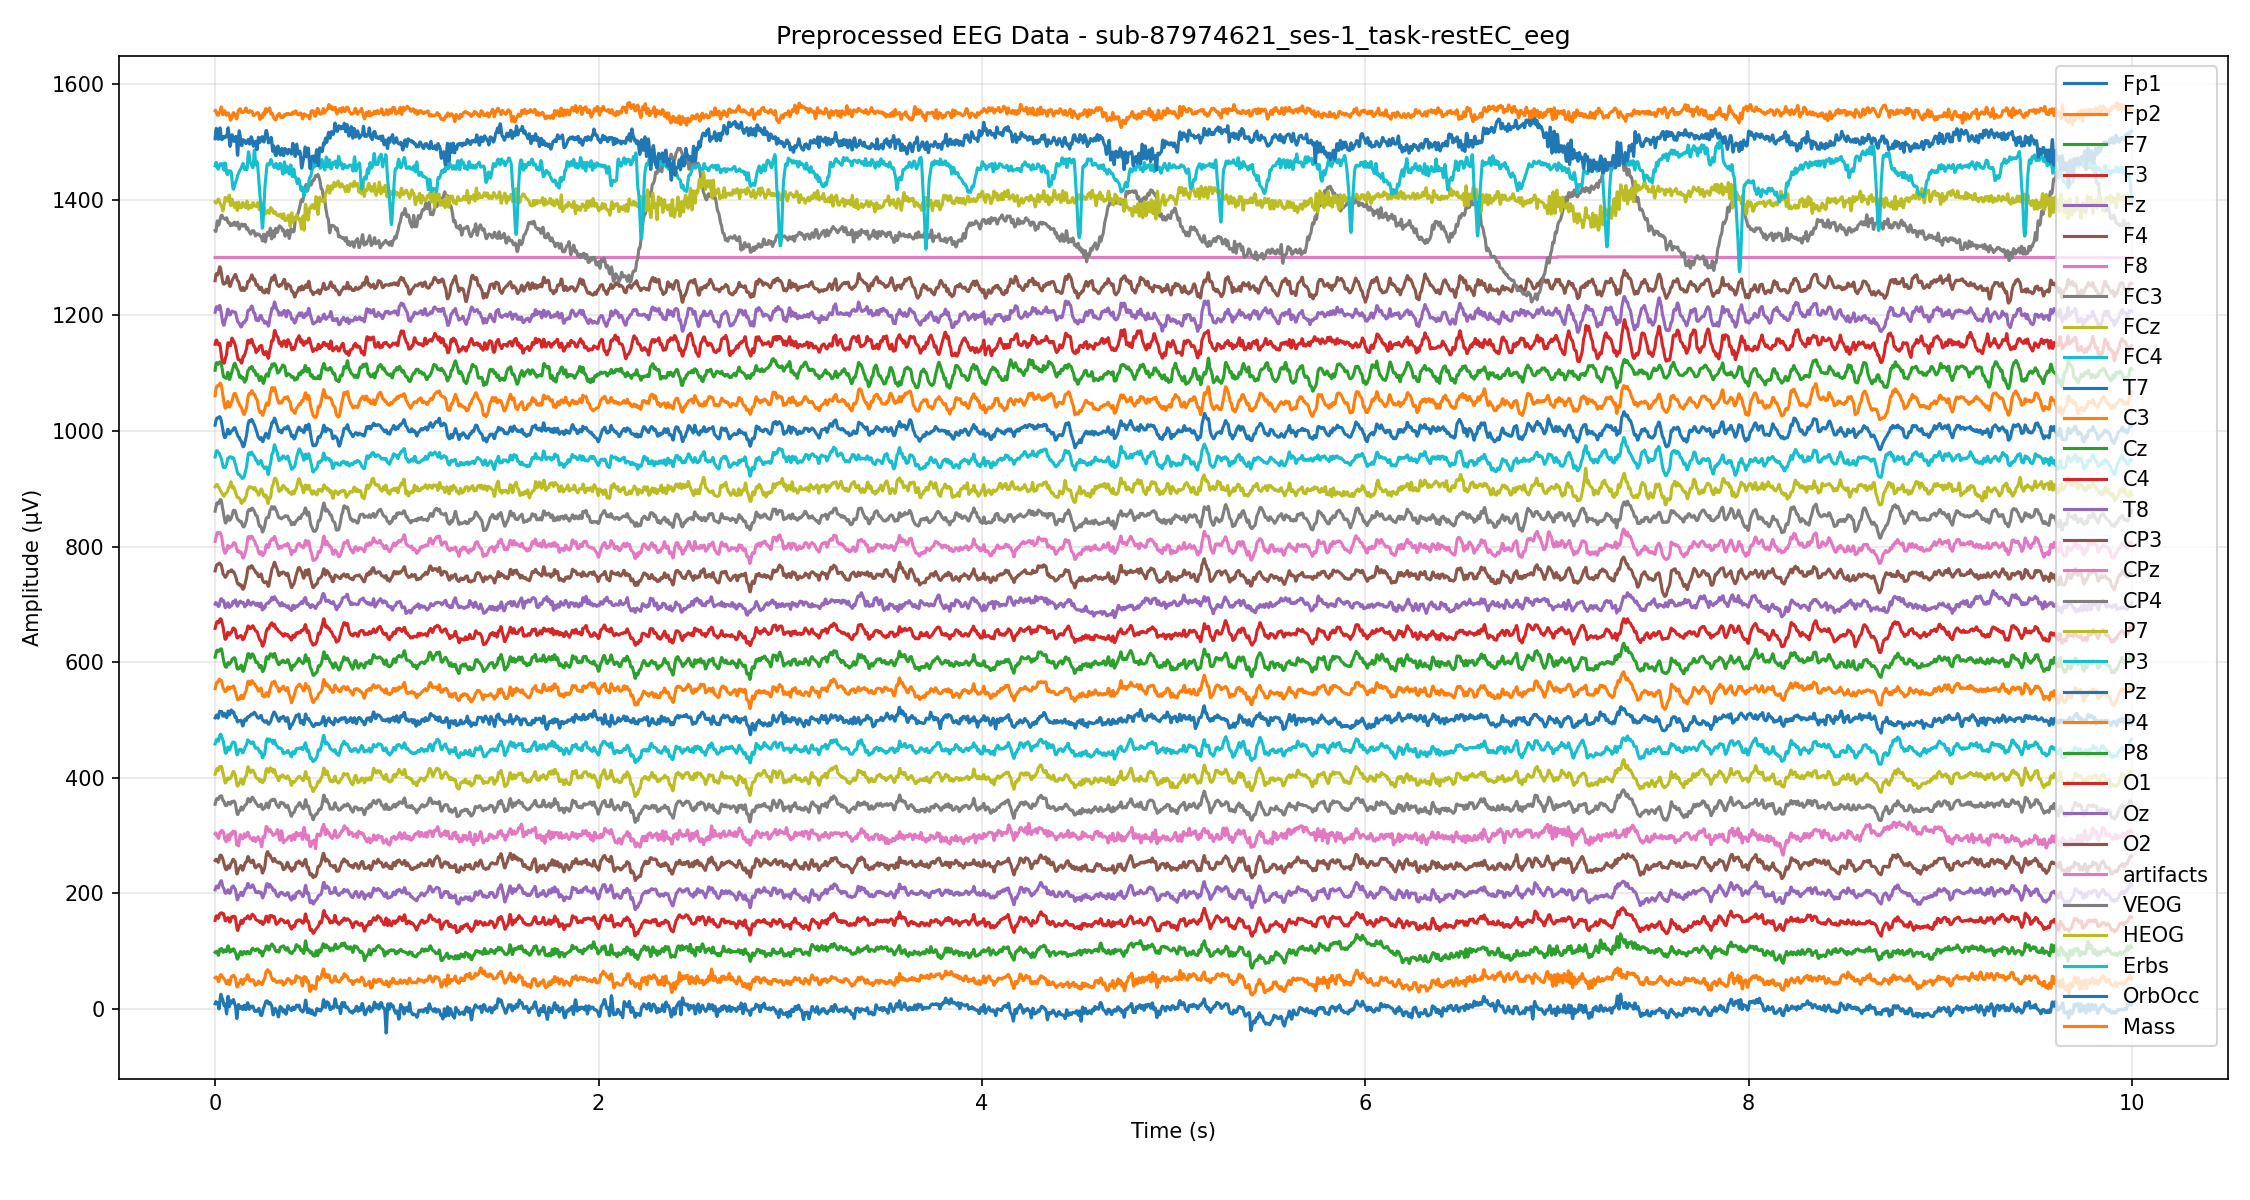
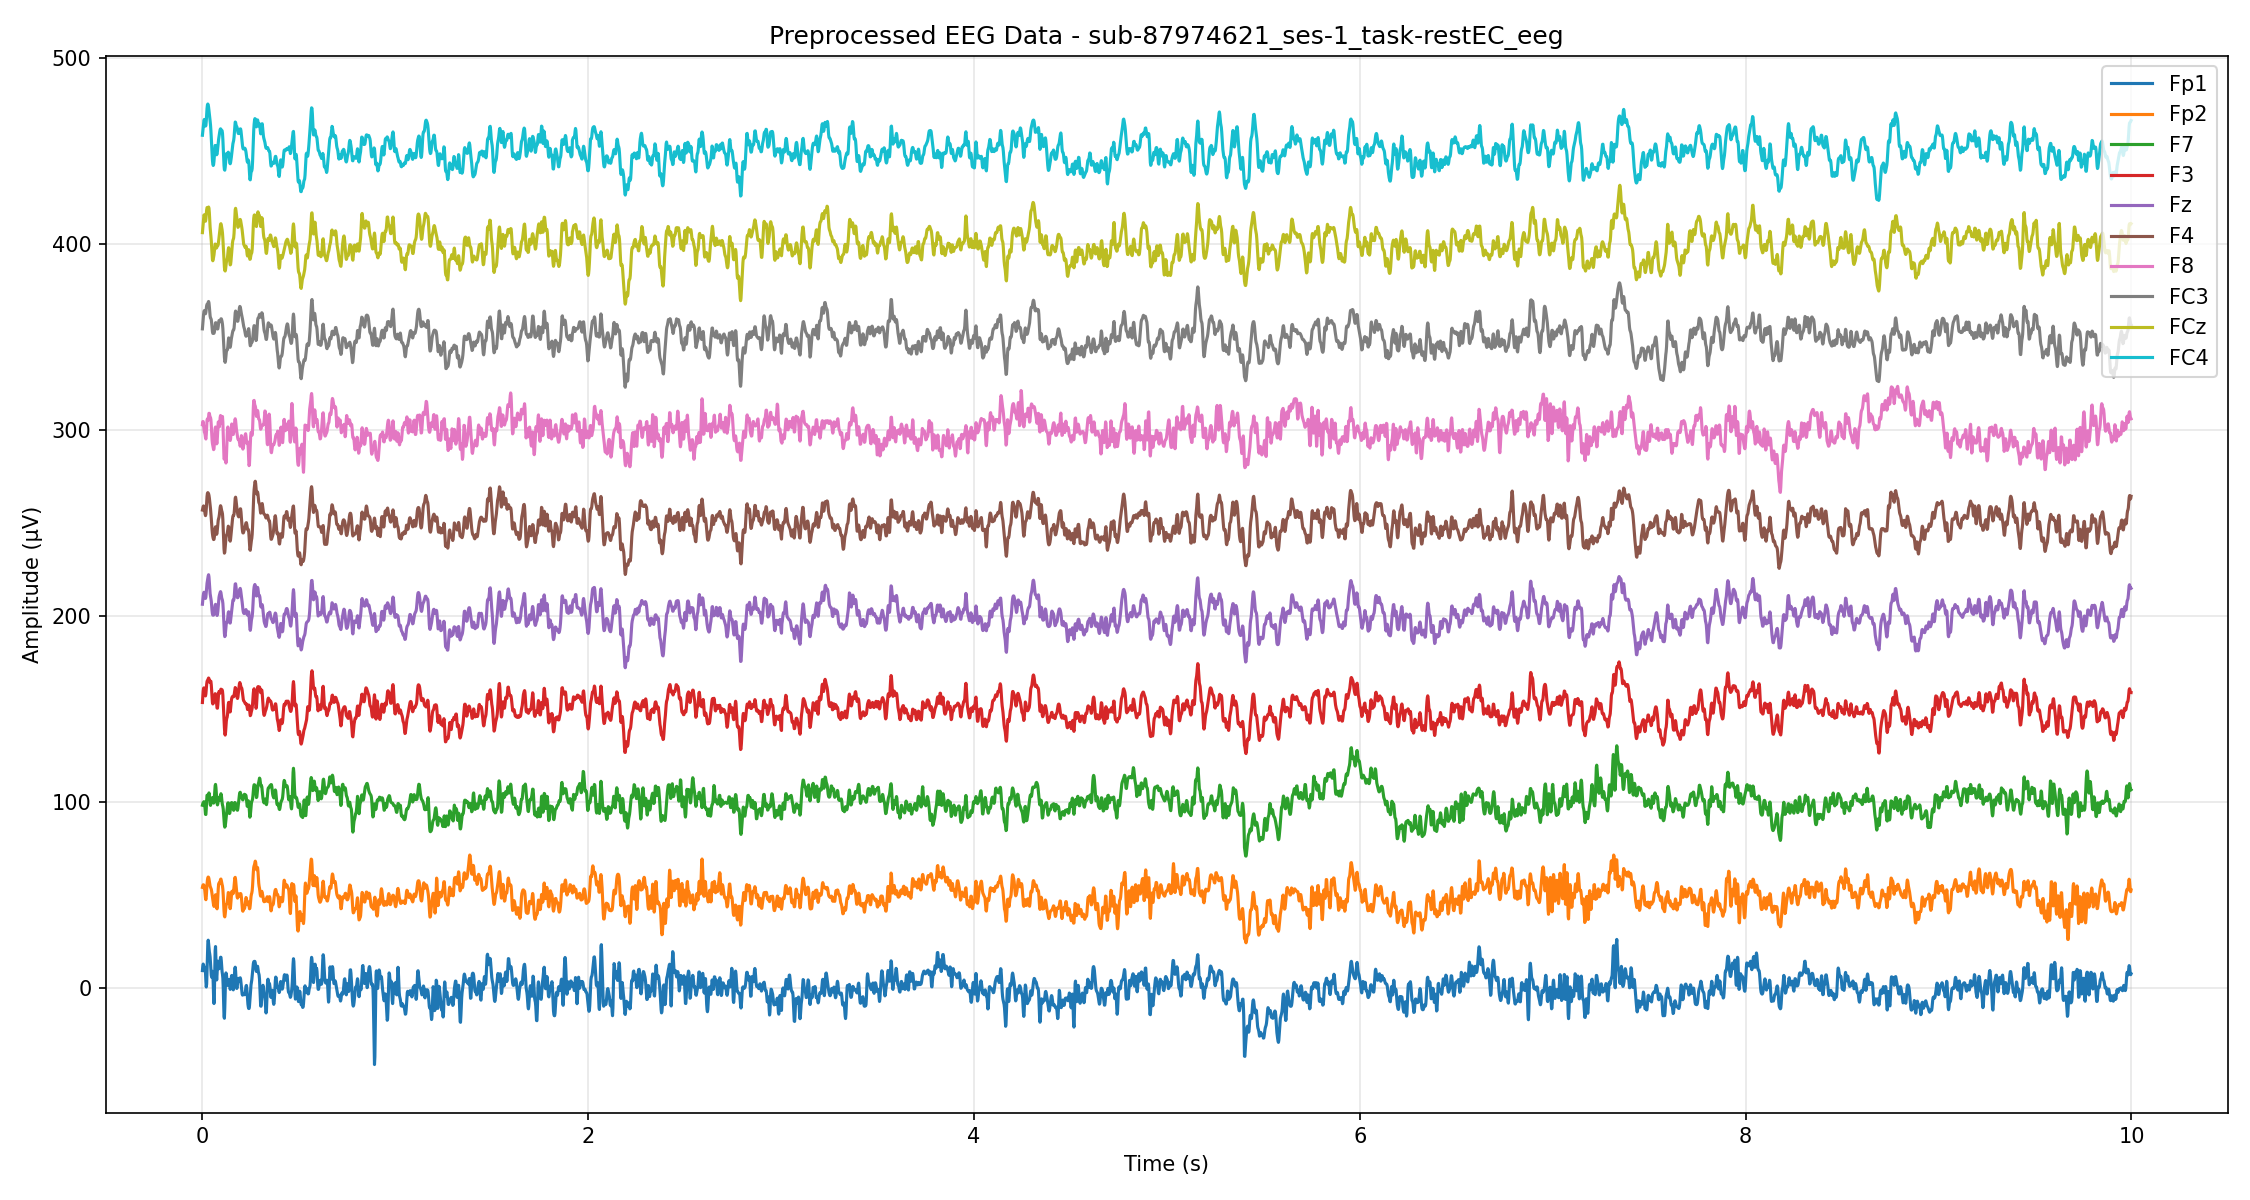
Added channel-wise MSE and R2 graph addition, with some cleanups

diff --git a/main.py b/main.py
@@ -20,11 +20,11 @@ sys.path.insert(0, os.path.join(os.getcwd(), 'preprocessing', 'TDBRAIN'))
 from preprocessing.TDBRAIN.autopreprocessing import dataset as ds
 
 # Configuration
-PATIENT_ID = "sub-87974621_ses-1_task-restEC_eeg"  # Change this to your patient ID
+PATIENT_ID = "sub-88026949_ses-2_task-restEC_eeg"  # Change this to your patient ID
 DATA_PATH = "E:\\JHU_Postdoc\\Research\\TDBrain\\TD_BRAIN_code\\BRAIN_code\\Sample\\diff_data"  # Update with your data path
 OUTPUT_PATH = ".\\output"  # Where to save results
 
-# Create output directory
+# Create output directory (and any parents), but don’t crash if it already exists.
 Path(OUTPUT_PATH).mkdir(parents=True, exist_ok=True)
 
 print(f"Processing patient: {PATIENT_ID}")
@@ -57,7 +57,8 @@ else:
     print(f"Data shape: {eeg_data.data.shape}")
     print(f"Number of channels: {len(eeg_data.labels)}")
     print(f"Sampling frequency: {eeg_data.Fs} Hz")
-    print(f"Channel labels: {eeg_data.labels[:10]}...")  # Show first 10 channels
+    print(f"Duration: {eeg_data.data.shape[1] / eeg_data.Fs} seconds")
+    print(f"Channel labels: {eeg_data.labels[:]}...")  # Show first 10 channels
 
 # %% Section 3: Preprocessing
 print("\n" + "=" * 60)
@@ -110,13 +111,13 @@ print("SECTION 4: VISUALIZING PREPROCESSED DATA")
 print("=" * 60)
 
 # Segment data for visualization (10 second segments)
-# eeg_data.segment(trllength=10, remove_artifact='no')
+eeg_data.segment(trllength=20, remove_artifact='no')
 
 # Plot a sample of the preprocessed data
 fig, ax = plt.subplots(figsize=(15, 8))
 
 # Plot first few channels for 10 seconds
-n_channels_to_plot = max(5, len(eeg_data.labels))
+n_channels_to_plot = min(10, len(eeg_data.labels))
 time_vector = np.arange(eeg_data.data.shape[2]) / eeg_data.Fs
 
 for i in range(n_channels_to_plot):
@@ -153,7 +154,7 @@ print(f"Data for A matrix computation: {data_continuous.shape}")
 print(f"Channels: {n_channels}, Samples: {n_samples}")
 
 # Parameters for A matrix computation
-window_length = 0.15 #0.045  # 45ms window (from MATEO code)
+window_length = 0.5 #0.045  # 45ms window (from MATEO code)
 alpha = 1e-12  # Regularization parameter
 fs = eeg_data.Fs
 
@@ -172,75 +173,85 @@ def compute_A_matrix(X, alpha, n_channels):
     """
     nchns, T = X.shape
 
-    Z = X[:, 0:T - 1]
-    Y = X[:, 1:T]
+    Z = X[:, 0:T - 1] # Takes all columns except the last → represents data from time t to T−1 (past samples).
+    Y = X[:, 1:T] #Takes all columns except the first → represents data from time t+1 to T (future samples).
 
+    # Computes regularized autocovariance matrix of Z:  #Z @ Z.T gives covariance between channels;
+    # alpha * np.eye(nchns) adds diagonal regularization (ridge term) to ensure matrix invertibility.
     Z2 = Z @ Z.T + alpha * np.eye(nchns)
-    D = np.linalg.pinv(Z2)
-    D2 = Z.T @ D
-    A_hat = Y @ D2
 
+    #Computes the Moore–Penrose pseudo-inverse of the regularized covariance matrix Z2. This step is needed for numerical stability if Z2 is near-singular.
+    D = np.linalg.pinv(Z2)
+
+    D2 = Z.T @ D #This forms part of the regression solution (preparing to estimate the transition mapping).
+
+    A_hat = Y @ D2 #Computes the transition (connectivity) matrix:
+    # This gives how each channel’s next-time activity depends on all channels’ current activity.
+
+    #Returns the estimated A_hat, a square matrix of size (n_channels × n_channels)
+    # describing how each channel at time t influences every channel at time t + 1.
     return A_hat
 
 
 # Compute A matrices for all windows
-window_start = 0
-A_matrices = []
+window_start = 0 #Initializes starting index of the first time window.
+A_matrices = [] #Empty list to store A-matrices from each window.
 
-while window_start < (n_samples - window_length_samples):
-    X = data_continuous[:, window_start:window_start + window_length_samples]
+while window_start < (n_samples - window_length_samples): #Loop through the continuous data in chunks
+    X = data_continuous[:, window_start:window_start + window_length_samples] #Extracts one time window Shape: (n_channels, window_length_samples)
 
     # Standardize the data
-    mean_vec = np.mean(X, axis=1, keepdims=True)
-    X_centered = X - mean_vec
-    std_vec = np.std(X_centered, axis=1, keepdims=True)
+    mean_vec = np.mean(X, axis=1, keepdims=True)  #Computes mean of each channel (along time). Used for centering.
+    X_centered = X - mean_vec #makes each channel zero-mean within this window.
+    std_vec = np.std(X_centered, axis=1, keepdims=True) #Computes standard deviation of each channel.
     std_vec[std_vec == 0] = 1  # Avoid division by zero
 
     # Compute A matrix
-    A_hat = compute_A_matrix(X, alpha, n_channels)
-    A_matrices.append(A_hat)
+    A_hat = compute_A_matrix(X, alpha, n_channels) #Computes the transition (A) matrix for this window using the earlier routine.
+    A_matrices.append(A_hat) #Stores the A-matrix for this time window.
 
-    window_start += window_advance_samples
+    window_start += window_advance_samples #Moves the sliding window ahead by a fixed number of samples (defines overlap)
 
-A_matrices = np.array(A_matrices)
+A_matrices = np.array(A_matrices) #Converts the list to a 3-D NumPy array. Shape: (n_windows, n_channels, n_channels).
 A_matrices = np.transpose(A_matrices, (1, 2, 0))  # Shape: (n_channels, n_channels, n_windows)
 
 print(f"A matrices computed!")
 print(f"Shape: {A_matrices.shape}")
 print(f"Number of windows: {A_matrices.shape[2]}")
 
-# %% Section 5.5: Reconstruct Signal from A Matrices
+# %% Section 6: Reconstruct Signal from A Matrices
 print("\n" + "=" * 60)
-print("SECTION 5.5: RECONSTRUCTING SIGNAL")
+print("SECTION 6: RECONSTRUCTING SIGNAL")
 print("=" * 60)
 
 # Initialize reconstructed signal
-data_reconstructed = np.zeros_like(data_continuous)
+data_reconstructed = np.zeros_like(data_continuous) #data_continuous = eeg_data.data[0, :26, :]  # First 26 channels (EEG only, exclude EOG)
 
-n_windows = A_matrices.shape[2]  # ADD THIS LINE
-channel_labels = eeg_data.labels
+n_windows = A_matrices.shape[2]  #Total window count
+channel_labels = eeg_data.labels # channel labels
 
 print(f"Reconstructing signal using A matrices...")
 print(f"Window length: {window_length_samples} samples")
 print(f"Number of windows: {n_windows}")
 
 # Reconstruct signal window by window
-for win_idx in range(n_windows):
-    # Get the A matrix for this window
+for win_idx in range(n_windows): #Iterates over each window index, reconstructing one segment at a time.
+
     A = A_matrices[:, :, win_idx]
 
     # Define window boundaries
-    win_start = win_idx * window_length_samples
-    win_end = min((win_idx + 1) * window_length_samples, n_samples)
+    win_start = win_idx * window_length_samples #Starting sample index for this window.
+    win_end = min((win_idx + 1) * window_length_samples, n_samples) #Ending index for the window (ensures not to exceed total samples).
 
     # Set initial condition: first sample of this window from true signal
     data_reconstructed[:, win_start] = data_continuous[:, win_start]
 
     # Recursively reconstruct within this window: X(t+1) = A * X(t)
     for t in range(win_start + 1, win_end):
-        data_reconstructed[:, t] = A @ data_reconstructed[:, t - 1]
+        data_reconstructed[:, t] = A @ data_reconstructed[:, t - 1] #Use Current A Mat to get the next Sample. Recursively approximate the entire signal.
+        #X^(t+1) = A X^(t)
 
-    if (win_idx + 1) % 10 == 0:
+    if (win_idx + 1) % 10 == 0: #Every 10 windows, prints progress to monitor long runs.
         print(f"  Processed {win_idx + 1}/{n_windows} windows...")
 
 print(f"Signal reconstruction complete!")
@@ -252,9 +263,112 @@ print(f"\nReconstruction Quality:")
 print(f"  Mean Squared Error: {mse:.2e}")
 print(f"  Correlation: {correlation:.4f}")
 
-# %% Section 5.6: Visualize Original vs Reconstructed Signal
+# Suppose:
+# data_continuous: (n_channels, n_samples)
+# data_reconstructed: (n_channels, n_samples)
+# window_length_samples, window_advance_samples already defined
+
+n_channels, n_samples = data_continuous.shape
+
+# Define window starts (same as in reconstruction)
+window_starts = np.arange(0, n_samples - window_length_samples + 1, window_advance_samples)
+n_windows = len(window_starts)
+
+# Initialize R² array
+R2_values = np.zeros((n_channels, n_windows))
+MSE_values = np.zeros((n_channels, n_windows))
+
+for w, start in enumerate(window_starts):
+    end = start + window_length_samples
+
+    # Extract segment for this window
+    Y_true = data_continuous[:, start:end]
+    Y_pred = data_reconstructed[:, start:end]
+
+    # Mean Squared Error (per channel)
+    mse = np.mean((Y_true - Y_pred) ** 2, axis=1)
+    MSE_values[:, w] = mse
+
+    # Compute per-channel R²
+    ss_res = np.sum((Y_true - Y_pred) ** 2, axis=1)
+    ss_tot = np.sum((Y_true - np.mean(Y_true, axis=1, keepdims=True)) ** 2, axis=1)
+    R2_values[:, w] = 1 - (ss_res / ss_tot)
+
+# ---- Create side-by-side subplots ----
+fig, axes = plt.subplots(1, 2, figsize=(14, 6), sharey=False)
+
+# ---- Left subplot: MSE ----
+for ch in range(n_channels):
+    axes[0].scatter(
+        np.full(n_windows, ch+1),
+        MSE_values[ch, :],
+        color='tab:orange',
+        alpha=0.6,
+        s=25
+    )
+
+axes[0].set_xlabel("Channels")
+axes[0].set_ylabel("MSE across windows")
+axes[0].set_title("Channel-wise Reconstruction Error (MSE)")
+axes[0].set_xticks(range(1, n_channels+1))
+axes[0].set_xticklabels(eeg_data.labels[:26])
+#axes[0].set_xticklabels([f"Ch{i+1}" for i in range(n_channels)])
+axes[0].grid(True, axis='y', linestyle='--', alpha=0.6)
+axes[0].set_yscale('log')  # optional, use if MSE varies widely
+
+# ---- Right subplot: R² ----
+for ch in range(n_channels):
+    axes[1].scatter(
+        np.full(n_windows, ch+1),
+        R2_values[ch, :],
+        color='tab:blue',
+        alpha=0.6,
+        s=25
+    )
+
+axes[1].set_xlabel("Channels")
+axes[1].set_ylabel("R² across windows")
+axes[1].set_title("Channel-wise Reconstruction Quality (R²)")
+axes[1].set_xticks(range(1, n_channels+1))
+axes[1].set_xticklabels(eeg_data.labels[:26])
+#axes[1].set_xticklabels([f"Ch{i+1}" for i in range(n_channels)])
+axes[1].grid(True, axis='y', linestyle='--', alpha=0.6)
+
+plt.tight_layout()
+plt.show()
+
+
+# # ---- Plot after loop ----
+# plt.figure(figsize=(10,5))
+# plt.boxplot(
+#     MSE_values.T,
+#     labels=[f"Ch{i+1}" for i in range(n_channels)],
+#     showfliers=False
+# )
+# plt.xlabel("Channels")
+# plt.ylabel("MSE across all windows")
+# plt.title("Channel-wise Reconstruction Error (MSE)")
+# plt.grid(True, axis='y', linestyle='--', alpha=0.6)
+# plt.tight_layout()
+# plt.show()
+#
+# # Optional: also show R² boxplot
+# plt.figure(figsize=(10,5))
+# plt.boxplot(
+#     R2_values.T,
+#     labels=[f"Ch{i+1}" for i in range(n_channels)],
+#     showfliers=False
+# )
+# plt.xlabel("Channels")
+# plt.ylabel("R² across all windows")
+# plt.title("Channel-wise Reconstruction Quality (R²)")
+# plt.grid(True, axis='y', linestyle='--', alpha=0.6)
+# plt.tight_layout()
+# plt.show()
+
+# %% Section 7: Visualize Original vs Reconstructed Signal
 print("\n" + "=" * 60)
-print("SECTION 5.6: VISUALIZING RECONSTRUCTION")
+print("SECTION 7: VISUALIZING RECONSTRUCTION")
 print("=" * 60)
 
 # Select channels to plot
@@ -333,9 +447,11 @@ print(f"\nPer-channel correlations:")
 for ch in channels_to_plot:
     ch_corr = np.corrcoef(data_continuous[ch, :], data_reconstructed[ch, :])[0, 1]
     # print(f"  {channel_labels[ch]}: {ch_corr:.4f}")
-# %% Section 6: Compute Sink Indices
+
+
+# %% Section 8: Compute Sink Indices
 print("\n" + "="*60)
-print("SECTION 6: COMPUTING SINK INDICES")
+print("SECTION 8: COMPUTING SINK INDICES")
 print("="*60)
 
 # Import the identifySS function from utils
@@ -367,9 +483,9 @@ print(f"\nOverall Statistics:")
 print(f"  Top sink channel: {eeg_data.labels[np.argmax(overall_sink)]} (index: {np.max(overall_sink):.4f})")
 print(f"  Top source channel: {eeg_data.labels[np.argmax(overall_source)]} (index: {np.max(overall_source):.4f})")
 
-# %% Section 7: Visualize Sink Index Heatmap
+# %% Section 9: Visualize Sink Index Heatmap
 print("\n" + "=" * 60)
-print("SECTION 7: VISUALIZING SINK INDEX HEATMAP")
+print("SECTION 9: VISUALIZING SINK INDEX HEATMAP")
 print("=" * 60)
 
 # Sort channels by mean sink index
@@ -415,9 +531,9 @@ print("\n" + "=" * 60)
 print("PIPELINE COMPLETE!")
 print("=" * 60)
 
-# %% Section 8: Visualize Sink Index Topomap
+# %% Section 10: Visualize Sink Index Topomap
 print("\n" + "="*60)
-print("SECTION 8: VISUALIZING SINK INDEX TOPOMAP")
+print("SECTION 10: VISUALIZING SINK INDEX TOPOMAP")
 print("="*60)
 
 import mne

diff --git a/preprocessing/TDBRAIN/autopreprocessing.py b/preprocessing/TDBRAIN/autopreprocessing.py
@@ -234,7 +234,7 @@ class dataset:
             - a bidirectional (zero phase) IIR filter will be aplied for the
                 notch frequency.
             - for the high as wel as low pass filter a bidirectional (zero phase)
-                a 4rth orde Butterworth filter is applied.
+                a 4rth order Butterworth filter is applied.
             - order in which the filters are applied:
                 1. notch
                 2. hp
@@ -458,7 +458,7 @@ class dataset:
             -------------------------------------------------------------------
             The dataset object with the start and end sample of each artifact
             that was detected can be found in the artifact field. The start and
-            endsample of each artifact is kept in the artifacts field for later
+            end sample of each artifact is kept in the artifacts field for later
             removal.
         '''
 
